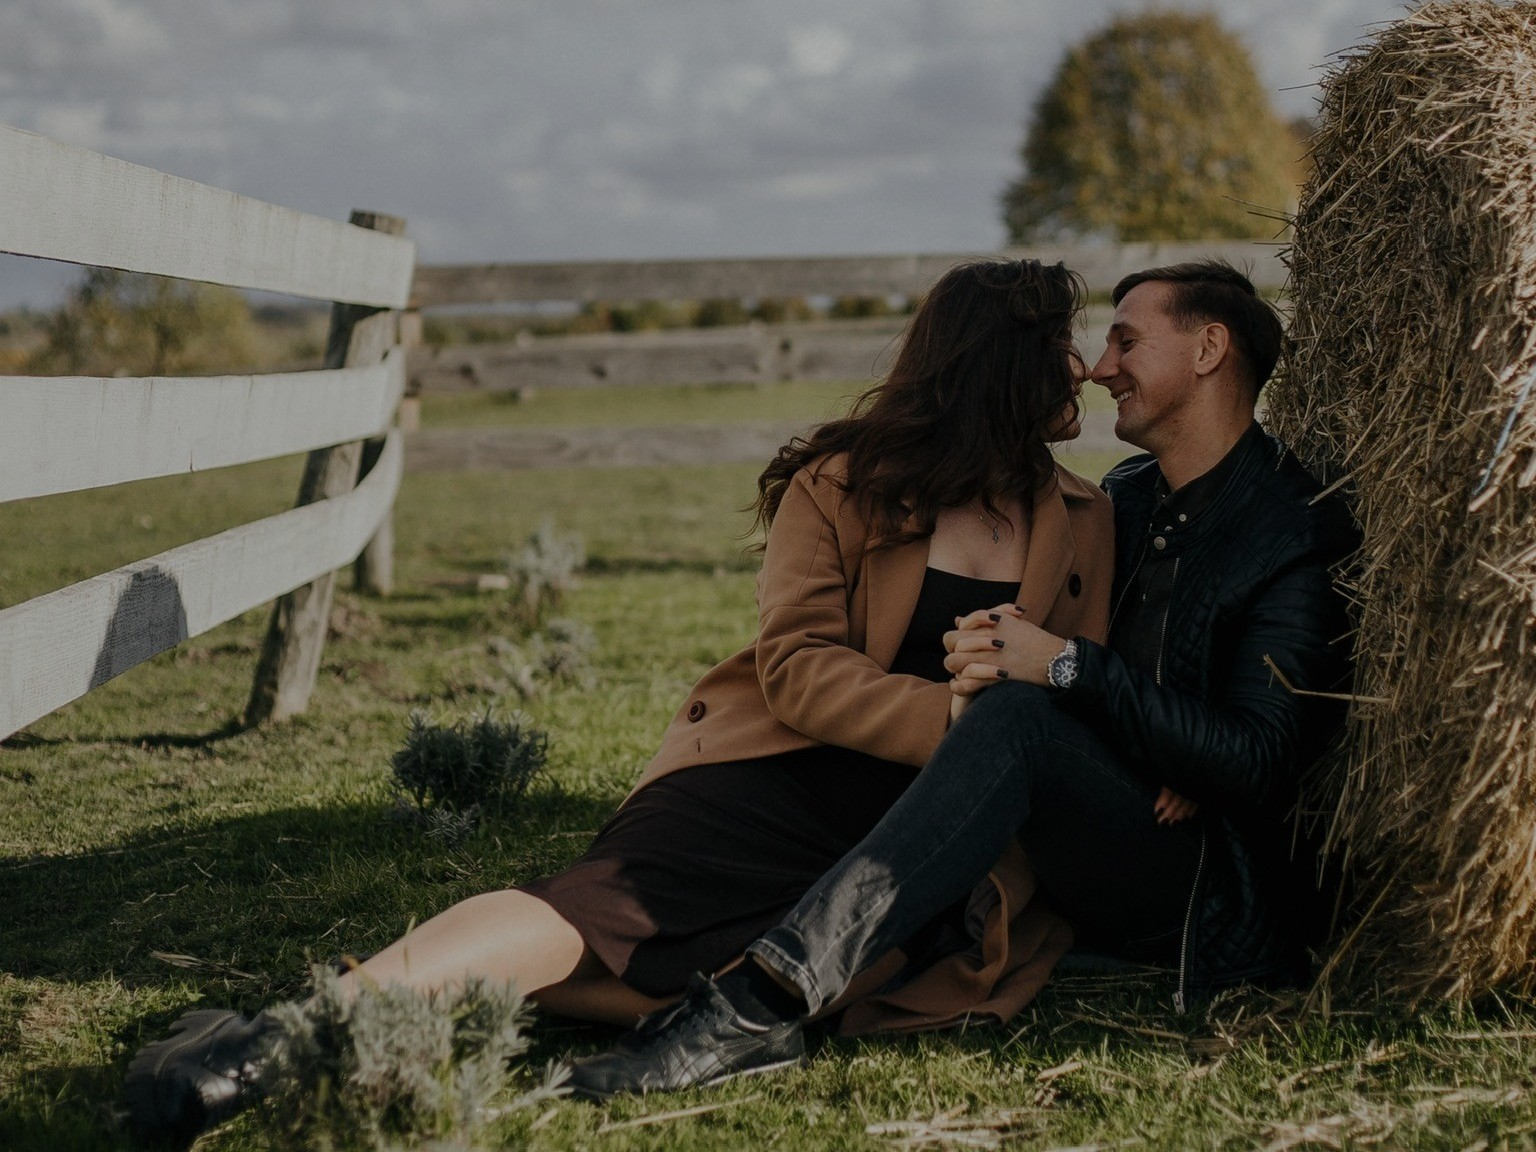
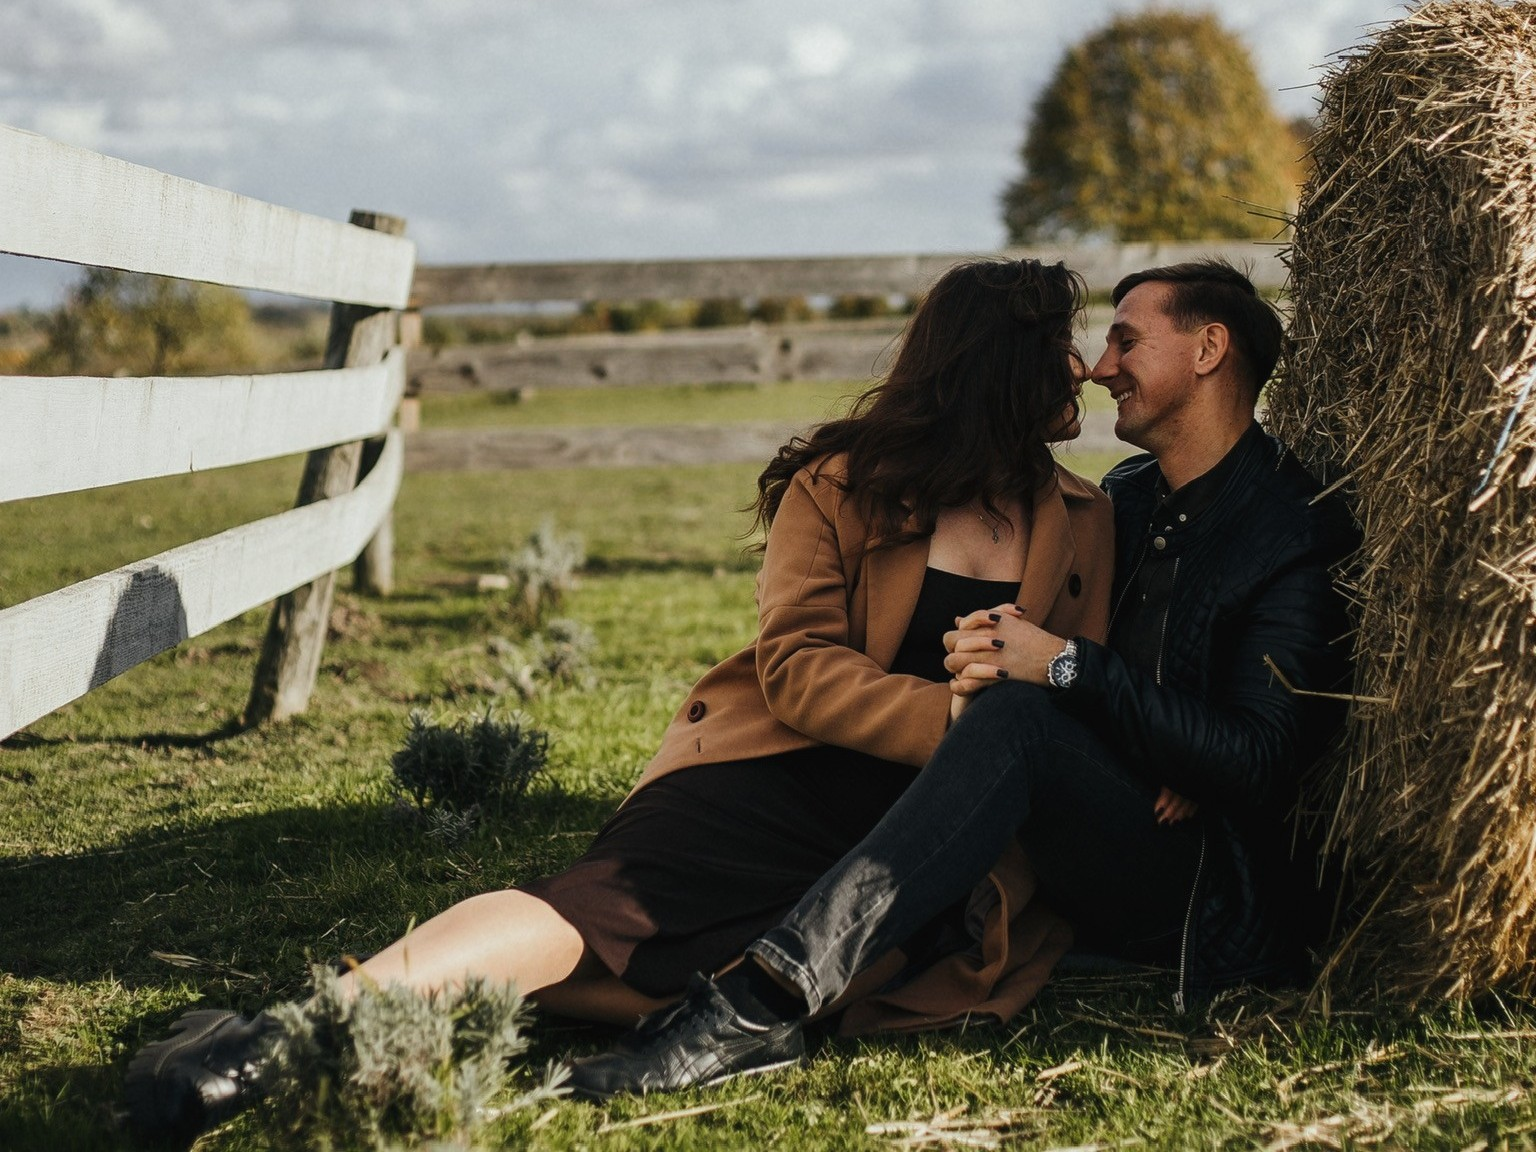
Please enter the commit message for your changes. Lines starting with '#' will be ignored, and an empty message aborts the commit.
On branch main
Your branch is up to date with 'origin/main'.

Changes to be committed:
	modified:   index.html
	modified:   src/We/IMG_81632.jpg
	new file:   src/We/preview.JPG

diff --git a/index.html b/index.html
@@ -3,6 +3,14 @@
 <head>
 <meta charset="UTF-8">
 <meta name="viewport" content="width=device-width, initial-scale=1.0">
+<meta property="og:description" content="Запрошення на наше весілля Олексанадра та Оксани 22/08/2026">
+<meta property="og:image" content="src\We\preview.JPG">
+<meta property="og:image:width" content="1200">
+<meta property="og:image:height" content="630">
+
+
+
+
 <link rel="icon" type="image/x-icon" href="src\love-letter.png">
 <title>Олександр & Оксана | 22.08.2026</title>
 
